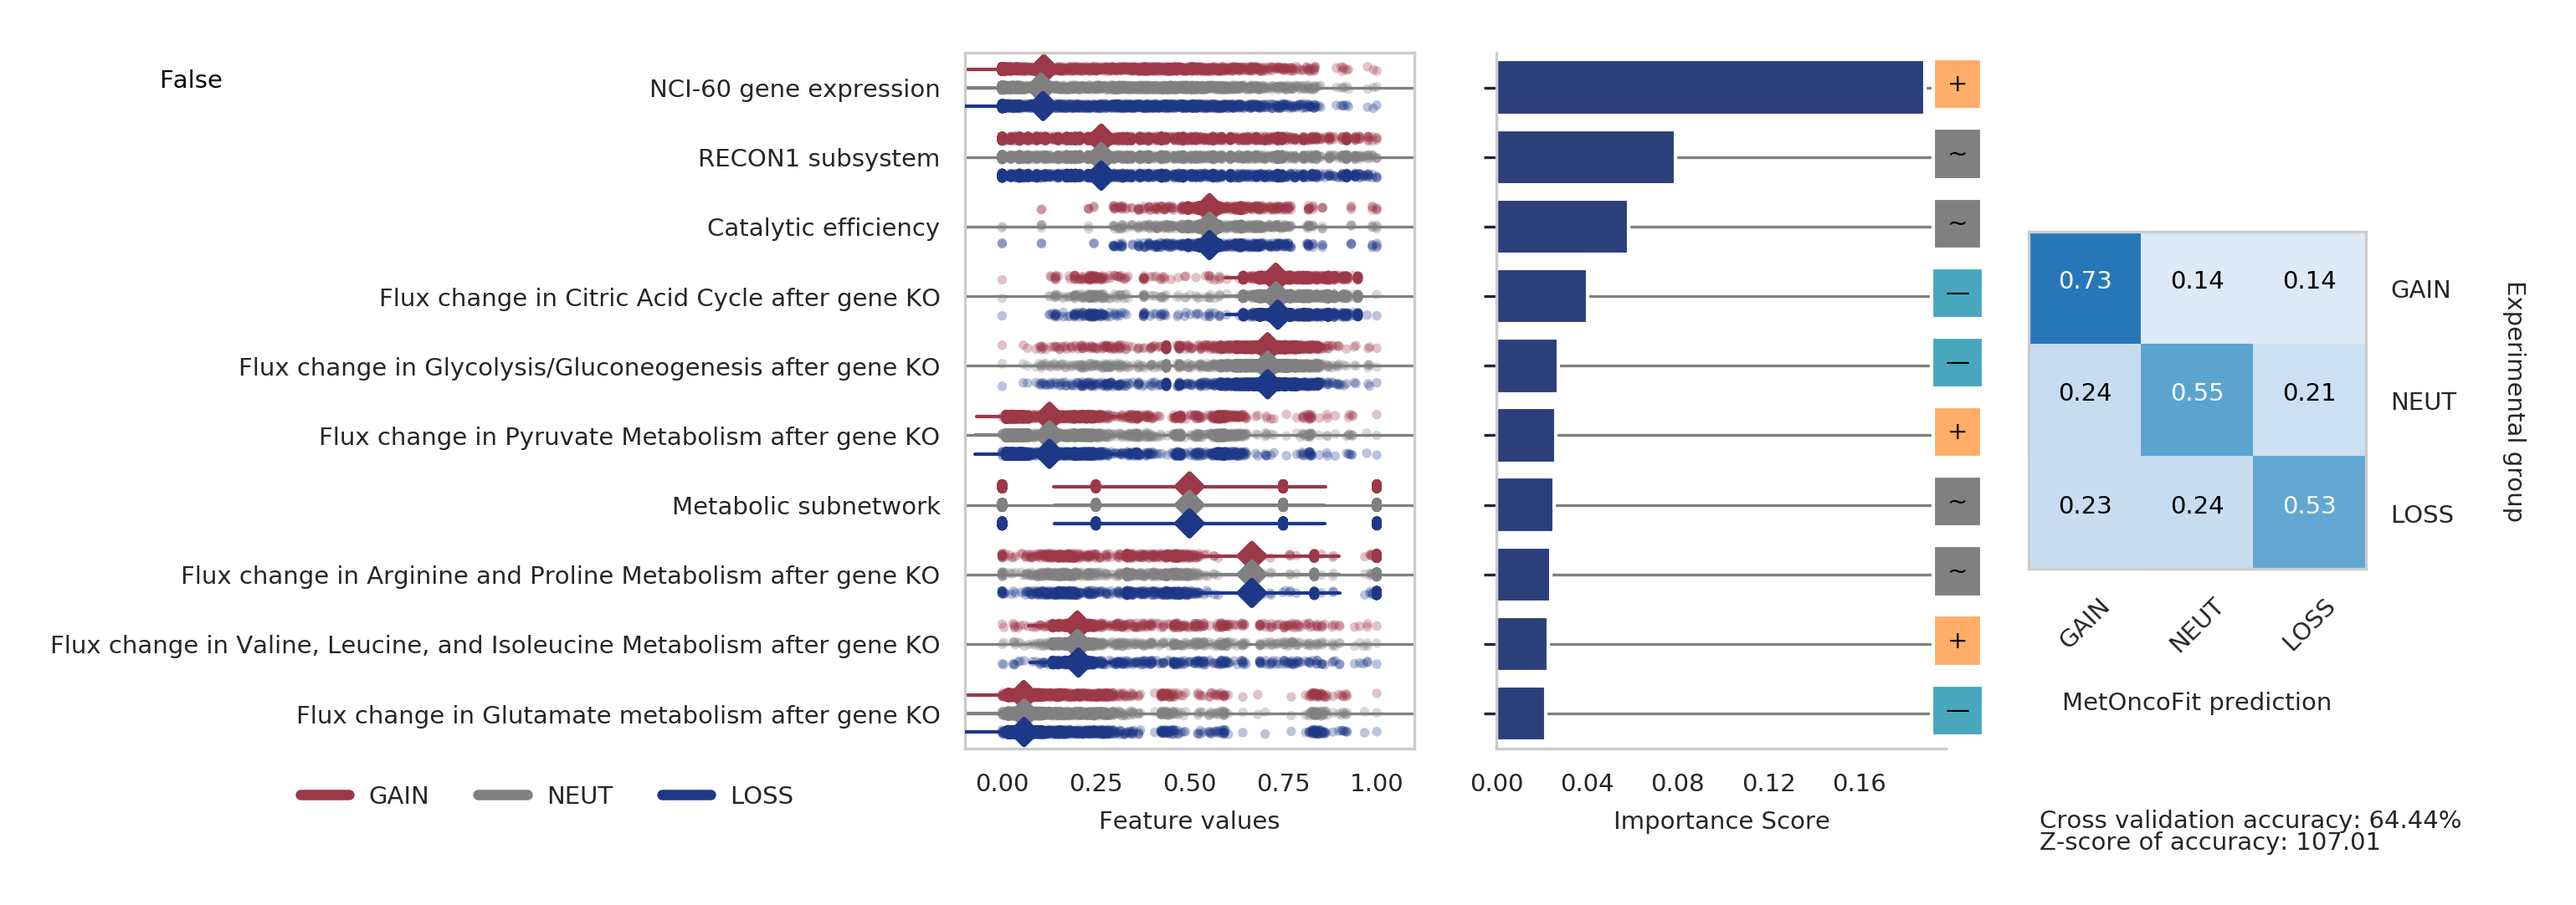
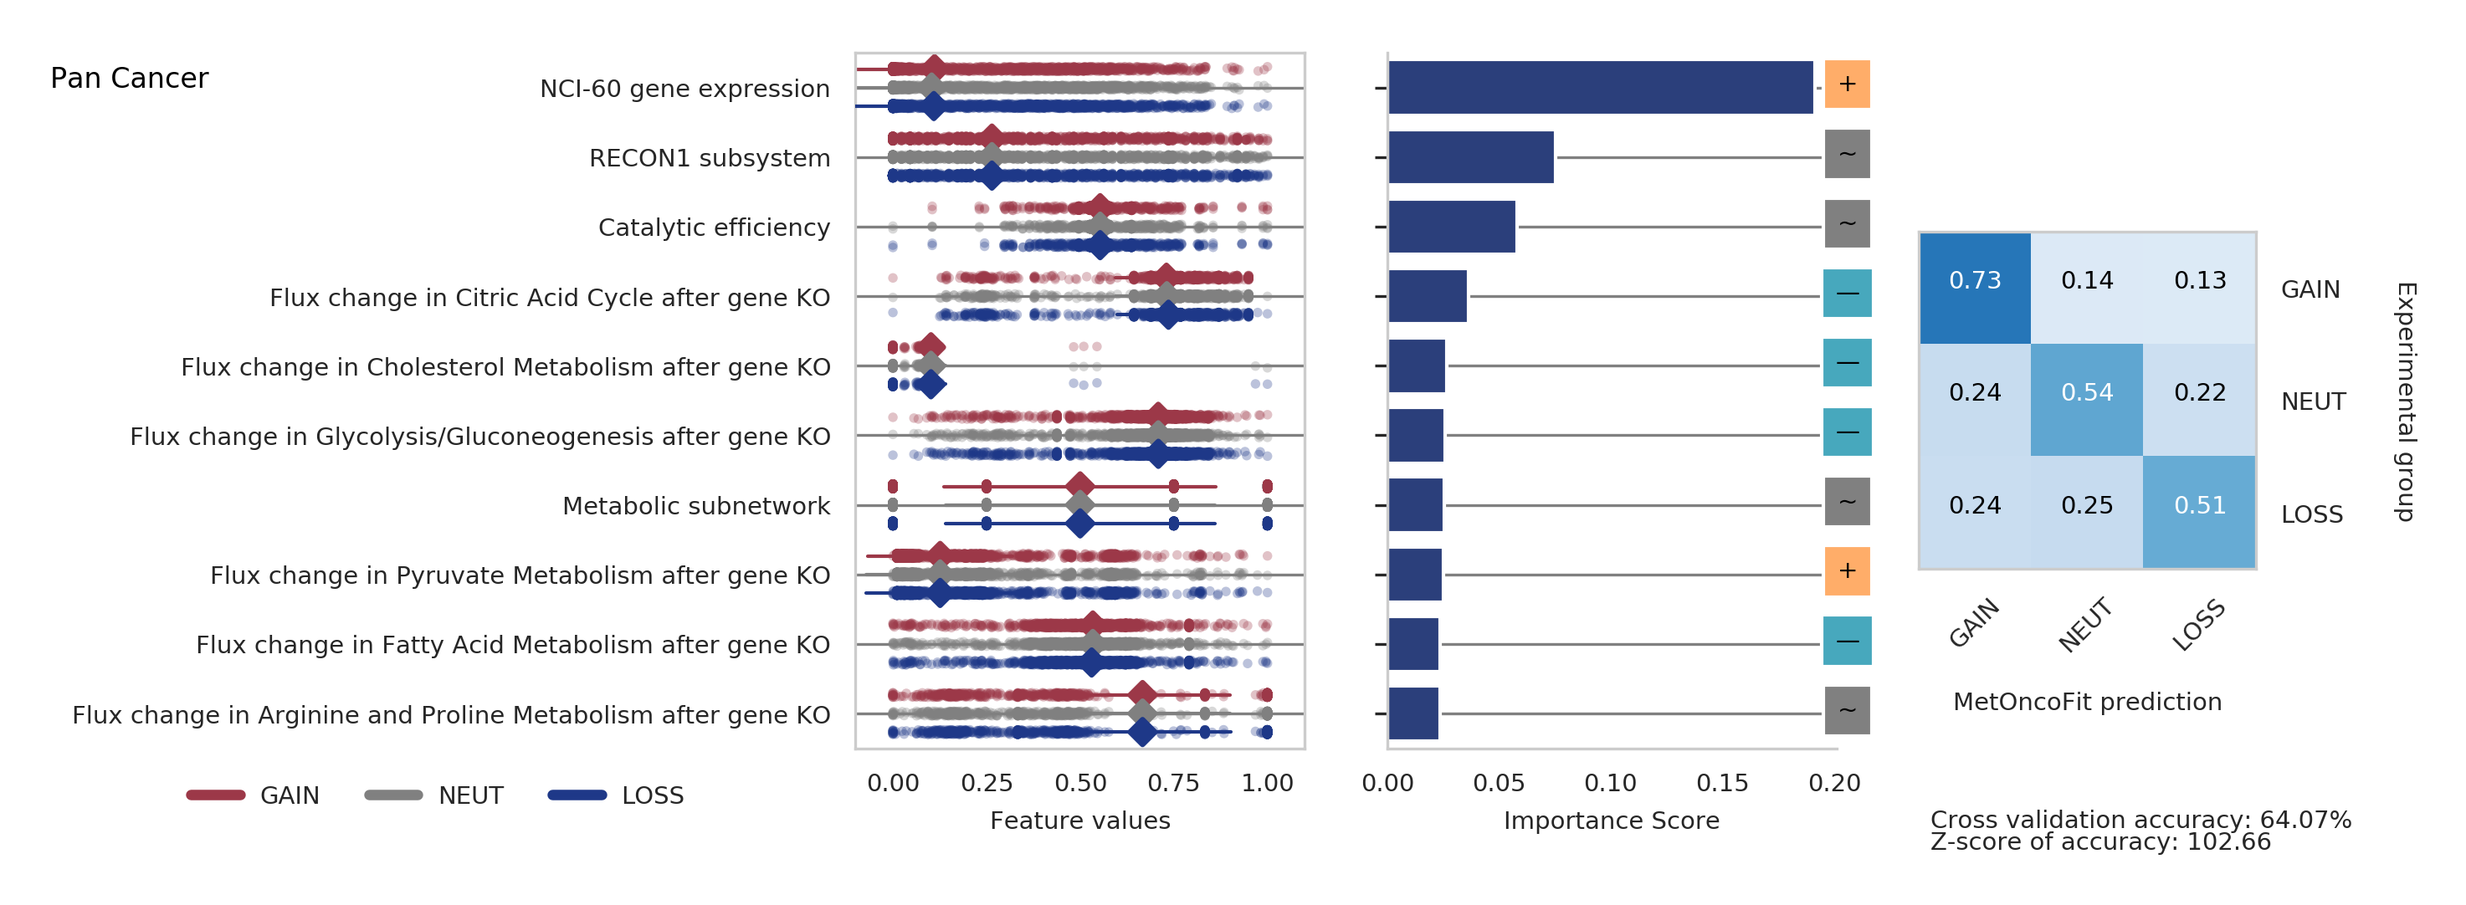
fixed cancer label

diff --git a/metoncofit/visualizations.py b/metoncofit/visualizations.py
@@ -82,7 +82,8 @@ def make_figure(df1, importance, cm, orig_classes, rfc_pred, cv_acc, pval, zscor
                   order=importance['Feature'], hue_order=targ_labels, dodge=True, jitter=True, alpha=0.3, zorder=1, size=2.75, ax=axarr[0])
 
     from numpy import median
-    # Show the conditional mean and standard deviation
+
+    # Show the conditional median and standard deviation
     sns.pointplot(x="value", y="feature", hue="type", palette=class_col, data=df1,
                   order=importance['Feature'], hue_order=targ_labels, dodge=0.532, join=False, markers="D", scale=0.75, ci="sd", estimator=median, errwidth=1.00, ax=axarr[0])
 
@@ -99,7 +100,7 @@ def make_figure(df1, importance, cm, orig_classes, rfc_pred, cv_acc, pval, zscor
     axarr[0].set_xlim((-0.1, 1.1))
     axarr[0].grid(color='gray', axis='y')
     axarr[0].xaxis.grid(False)
-    axarr[0].text(-2.25, 0, title_name, color='black', fontsize=7)
+    axarr[0].text(-2.25, 0, title_name, color='black', fontsize=8)
 
     # Create barplot
     sns.set(style="whitegrid")

diff --git a/metoncofit/metoncofit.py b/metoncofit/metoncofit.py
@@ -52,7 +52,7 @@ importance, final_df = process.one_gene_only(df1, targ, header, rfc, canc)
 
 # Make the figures
 visualizations.make_figure(final_df, importance, cm, orig_classes, rfc_pred, cv_score,
-                           pvalue, zscore, canc, targ, normalize=True, savepath=False, filename=False)
+                           pvalue, zscore, canc, targ, normalize=True, savepath=False, filename=False, title_name=canc)
 
 # Make supplementary heatmaps
 #fils = [
